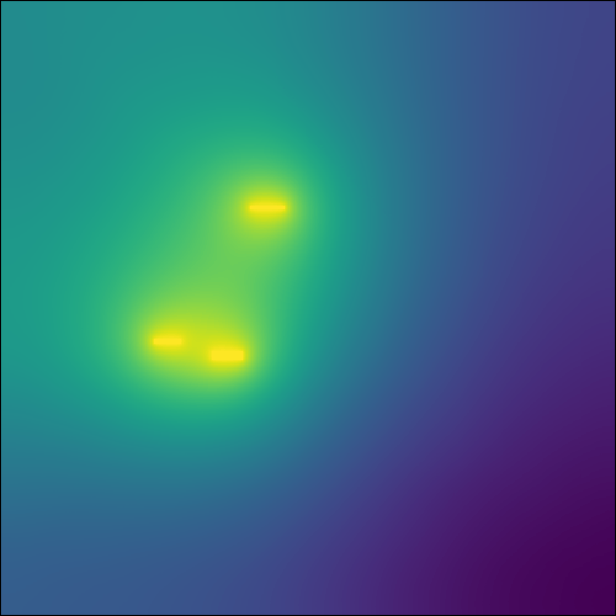
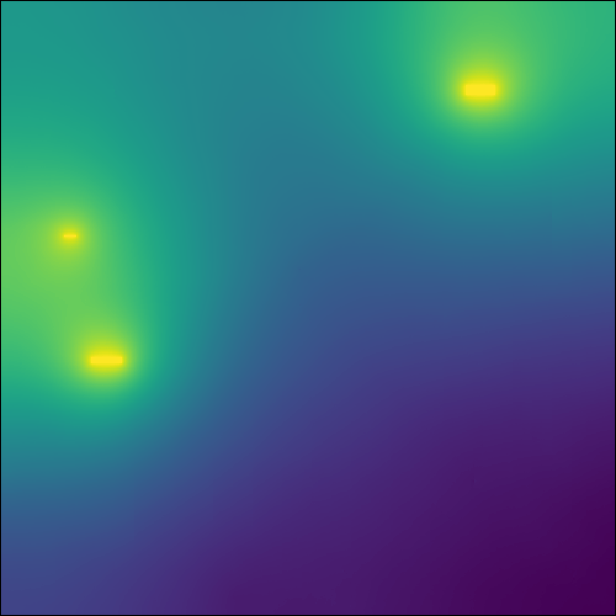
fix bug in edge-creation and update readme

diff --git a/src/diffusion.py b/src/diffusion.py
@@ -1,7 +1,7 @@
 import numpy as np
 import matplotlib.pyplot as plt
 import scipy.sparse.linalg
-np.random.seed(7)
+np.random.seed(27)
 
 def get_adjacency_size(H, W):
     """
@@ -24,10 +24,10 @@ def make_hori_conn(i, j):
 def make_vert_conn(i, j):
     """Connect (i, j) with (i-1, j)."""
     H, W = i.shape
-    src = (i[1:] * W + j[1:]).ravel()
-    dst = ((i[1:] - 1) * W + j[1:]).ravel()
+    src = (i[1:, :] * W + j[1:, :]).ravel()
+    dst = ((i[1:, :] - 1) * W + j[1:, :]).ravel()
     rng = np.arange(0, H * W - W).ravel()
-    return rng, src, dst
+    return src, dst, rng
 
 def make_conn(H, W):
     """Connect each node with its
@@ -35,7 +35,6 @@ def make_conn(H, W):
     i, j = np.mgrid[:H, :W]
     h_src, h_dst, h_rng = make_hori_conn(i, j)
     v_src, v_dst, v_rng = make_vert_conn(i, j)
-
     src = np.r_[h_src, v_src]
     dst = np.r_[h_dst, v_dst]
     rng = np.r_[h_rng, v_rng]
@@ -60,16 +59,16 @@ def make_adjacency(H, W):
 
 def make_resistance(n, rho=1):
     """
-    For simplicity, assume resistance
+    For simplicity assume resistance
     matrix multiple of identity.
     """
     R = scipy.sparse.spdiags(np.full(n, rho), 0, n, n)
     return R
 
-def get_slice(L, maxlength, margin=5):
+def get_slice(L, maxlength, margin=10):
     """
-    Apply magic number heuristic to 
-    get interesting non-degenerate demo.
+    Apply magic heuristic to get interesting 
+    non-degenerate demo. Best not to ask.
     """
     v0 = np.random.randint(L // margin, L)
     v1 = v0 + np.random.randint(min(L - v0, maxlength))
@@ -111,10 +110,10 @@ def make_fixed_node_mats(H, W, fixed_val=1):
 def make_blocksys(A, R, B, C):
     """
     Make block 3x3 system for solving:
-        A f + s     = 0
-        R f + A.T e = 0
-        B e + C s   = d
-    In the variable (f, s, e).
+        A f + I s +   0 e = 0
+        R f + 0 s + A.T e = 0
+        0 f + B s +   C e = d
+    In the stacked variable (f, s, e).
     """
     m, n = A.shape
     I_mxm = scipy.sparse.eye(m)
@@ -145,10 +144,8 @@ def how_sparse(mat):
     """Summarize problem size and structure."""
     m, n = mat.shape
     pct = mat.nnz / (m * n)
-    side = int(np.sqrt(m * n))
     msg = f'Linear system: {m} eqns in {n} vars.\n'
-    msg += f'Sparsity: {pct:.010f}.\n'
-    msg += f'Effective dimsize: {side:d}.'
+    msg += f'Sparsity: {pct:.010f}.'
     print(msg)
     
 def viz_diffusion(node_potentials, H, W):

diff --git a/readme.md b/readme.md
@@ -1,11 +1,12 @@
 ## Temperature diffusion.
 
-A heat diffusion problem from VMLS.
+Here we model heat diffusion over a lattice network
+as a flow conservation problem with a few fixed 
+node potentials. Problem can be found in VMLS.
 
 ![Diffusion](/images/diffusion.png)
 
 ```
 >> Linear system: 999000 eqns in 999000 vars.
 >> Sparsity: 0.0000030010.
->> Effective dimsize: 999000.
 ```
